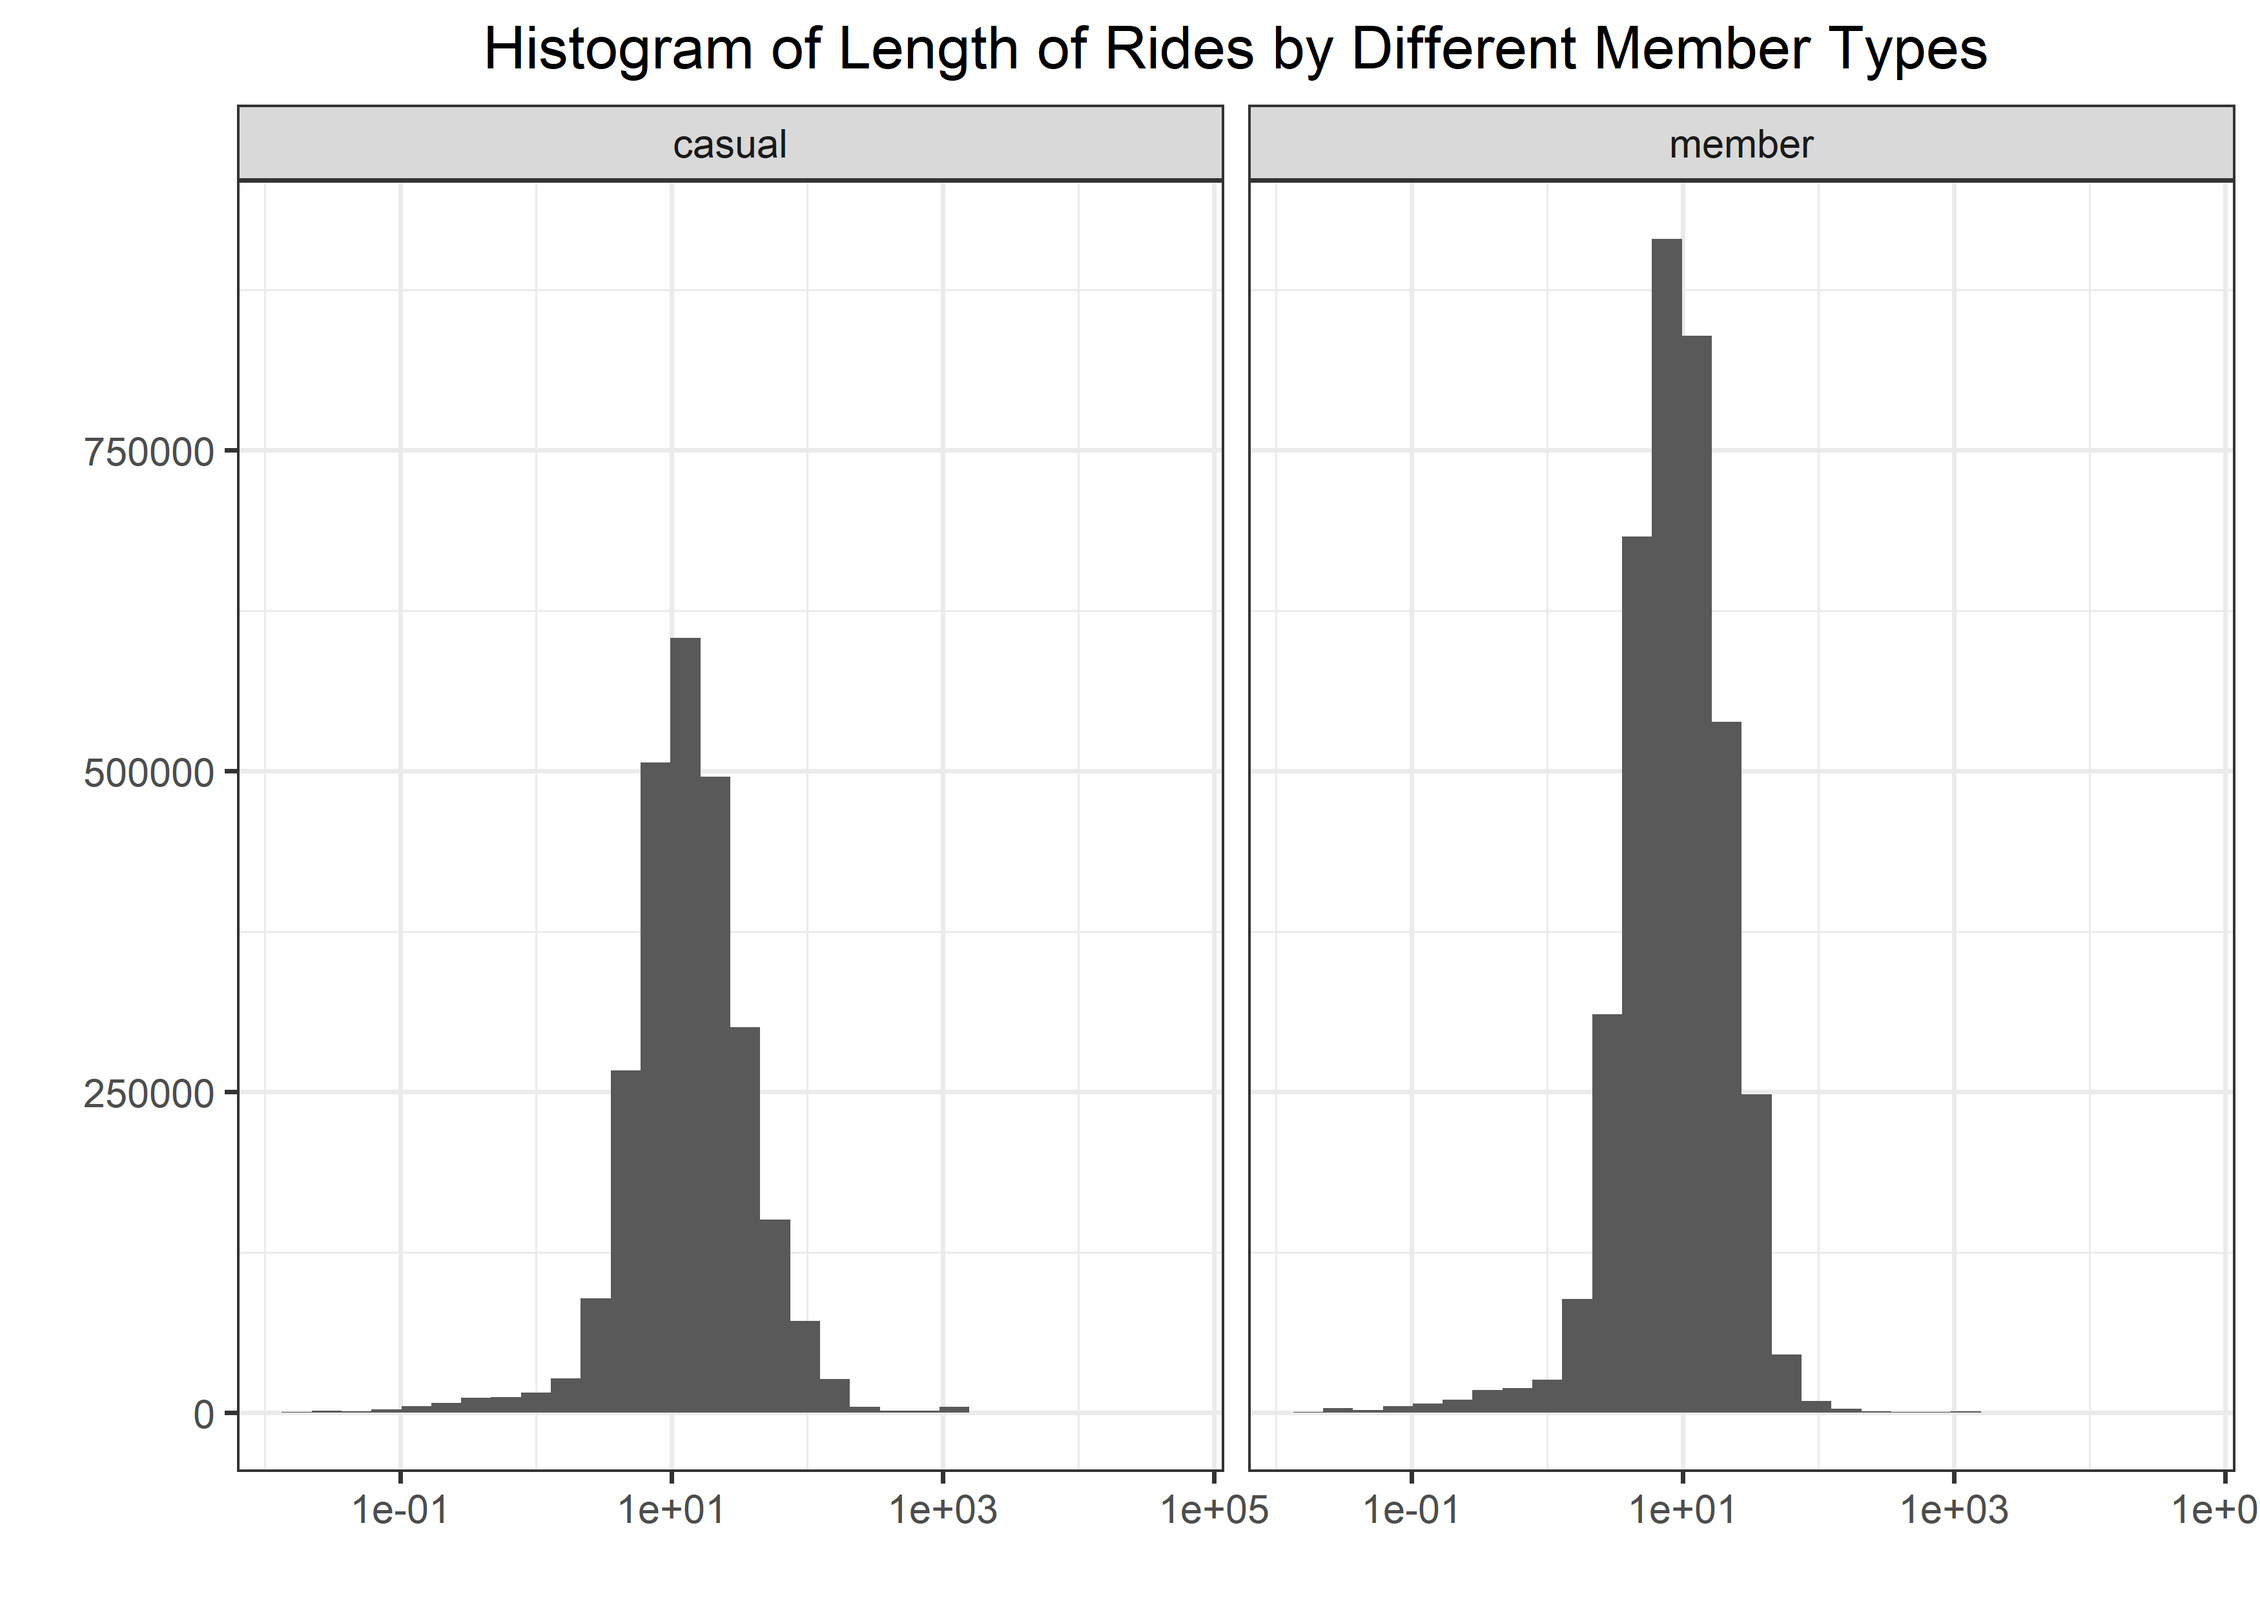
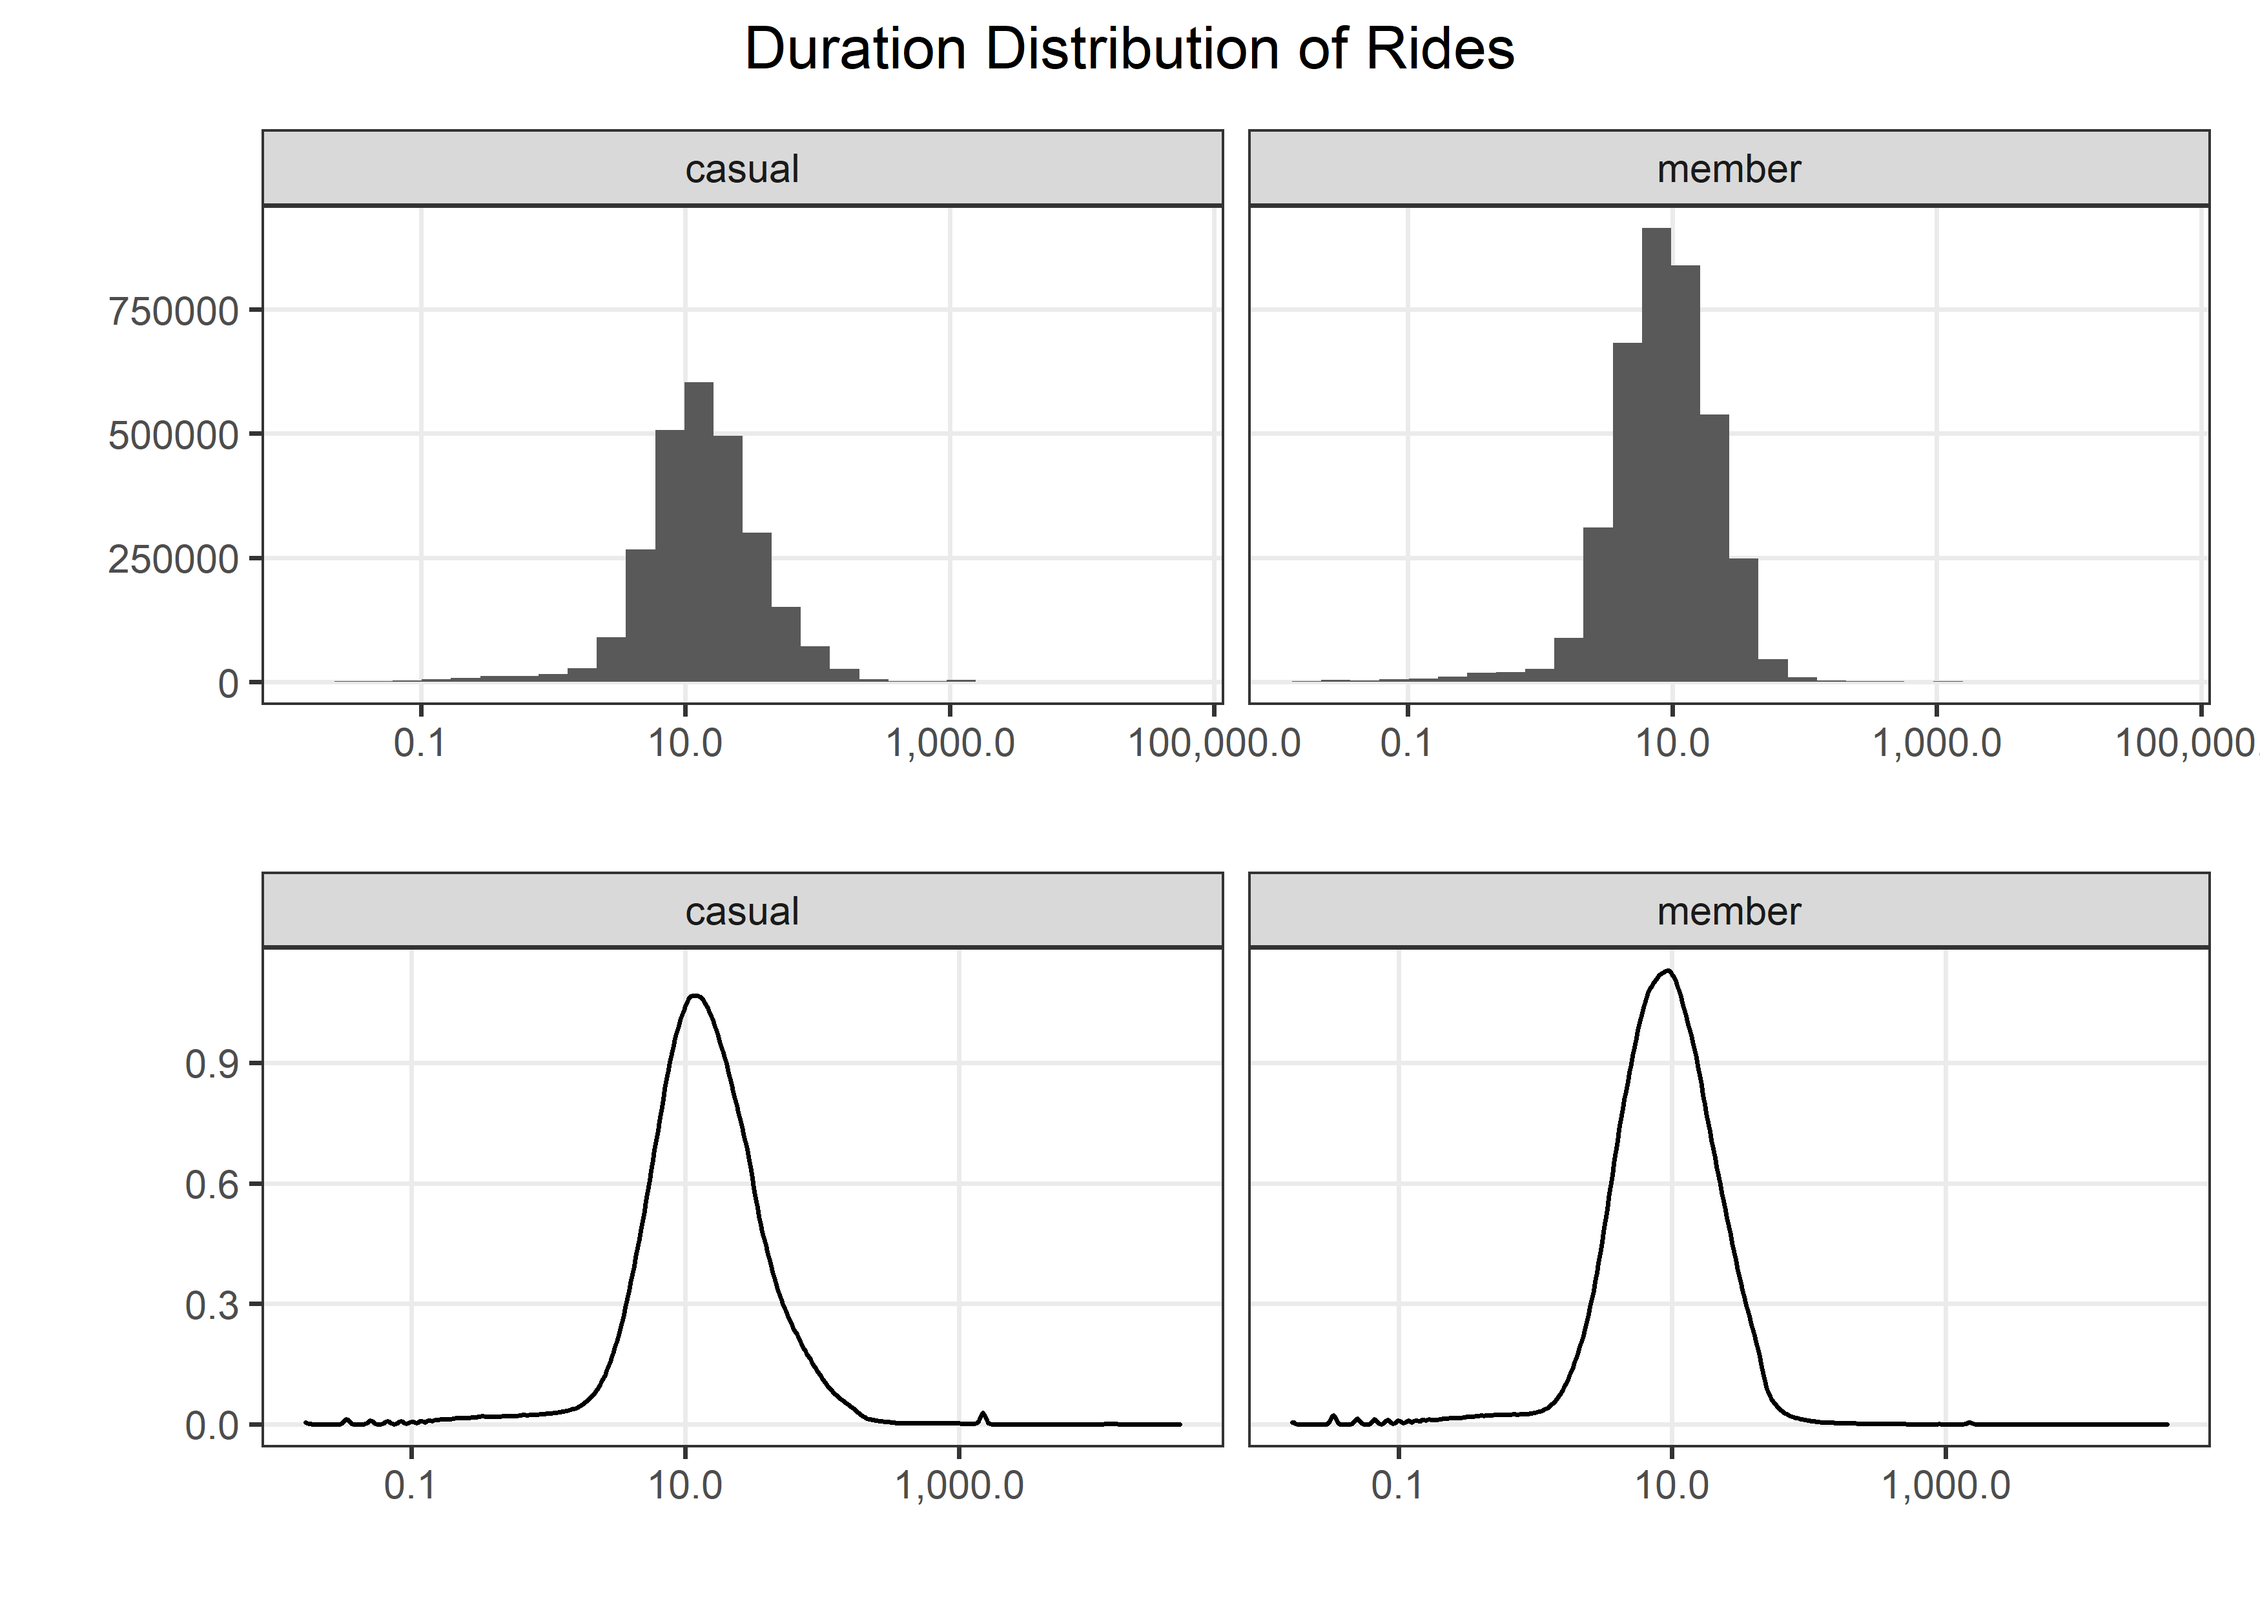
during work commit, removed errorbar plot and used boxplot instead (needs coloring). Plot of different days

diff --git a/Coursera Case Study/Bikes.md b/Coursera Case Study/Bikes.md
@@ -42,12 +42,13 @@ bikes <- read_csv("D:/Downloads/Case Study/Full Data/bikes.csv")
     ## i Use `spec()` to retrieve the full column specification for this data.
     ## i Specify the column types or set `show_col_types = FALSE` to quiet this message.
 
-Create columns that are the *length* of bike ride (in hours) and
-*day_of_week* (1 = Monday, 7 = Sunday).
+Create columns that are the *length* of bike ride (in seconds) and
+*day_of_week* (1 = Sunday, 7 = Saturday).
 
 ``` r
-bikes$length <- difftime(bikes$ended_at, bikes$started_at, "hours")
+bikes$length <- difftime(bikes$ended_at, bikes$started_at)
 bikes$day_of_week <- wday(bikes$started_at)
+bikes$day_label <- wday(bikes$started_at, label = TRUE)
 ```
 
 # Data Validation
@@ -89,7 +90,7 @@ bikes %>%
     ## # ... with 102 more rows
 
 ``` r
-bikes$length <- abs(bikes$length/60) # convert length (in seconds) to minutes and absolute value
+bikes$length <- abs(bikes$length)
 ```
 
 # EDA
@@ -102,11 +103,12 @@ skimr::skim_without_charts(bikes)
 |:-------------------------------------------------|:--------|
 | Name                                             | bikes   |
 | Number of rows                                   | 6386920 |
-| Number of columns                                | 15      |
+| Number of columns                                | 16      |
 | \_\_\_\_\_\_\_\_\_\_\_\_\_\_\_\_\_\_\_\_\_\_\_   |         |
 | Column type frequency:                           |         |
 | character                                        | 7       |
 | difftime                                         | 1       |
+| factor                                           | 1       |
 | numeric                                          | 5       |
 | POSIXct                                          | 2       |
 | \_\_\_\_\_\_\_\_\_\_\_\_\_\_\_\_\_\_\_\_\_\_\_\_ |         |
@@ -128,9 +130,15 @@ Data summary
 
 **Variable type: difftime**
 
-| skim_variable | n_missing | complete_rate | min    | max           | median     | n_unique |
-|:--------------|----------:|--------------:|:-------|:--------------|:-----------|---------:|
-| length        |         0 |             1 | 0 secs | 41387.25 secs | 10.35 secs |    23350 |
+| skim_variable | n_missing | complete_rate | min    | max          | median   | n_unique |
+|:--------------|----------:|--------------:|:-------|:-------------|:---------|---------:|
+| length        |         0 |             1 | 0 secs | 2483235 secs | 621 secs |    23350 |
+
+**Variable type: factor**
+
+| skim_variable | n_missing | complete_rate | ordered | n_unique | top_counts                                          |
+|:--------------|----------:|--------------:|:--------|---------:|:----------------------------------------------------|
+| day_label     |         0 |             1 | TRUE    |        7 | Sat: 1068394, Fri: 914981, Thu: 909070, Sun: 893711 |
 
 **Variable type: numeric**
 
@@ -157,28 +165,55 @@ subscription.
 
 ## Casuals vs Members
 
+There are more than 1 million more members than casuals.
+
 ``` r
 bikes %>% 
-  group_by(member_casual) %>% 
-  mutate(length = as.numeric(length)) %>% 
-  summarize(m = mean(length), sd = sd(length)) %>% 
-  ggplot(aes(m, member_casual, color = member_casual)) + geom_point() + 
-  geom_vline(aes(xintercept = m, color = member_casual), linetype = "dashed", show.legend = FALSE) +
-  geom_errorbar(aes(xmax = m + sd, xmin = m - sd), width = 0.25, show.legend = FALSE) + 
-  geom_text(aes(label = round(m,2), color = member_casual, x = ifelse(m < 13, -30, 70), y = 0.6), show.legend = FALSE) +
-  geom_segment(aes(x = -20, y = 0.56, xend = 10, yend = 0.48)) + 
-  geom_segment(aes(x = 55, y = 0.56, xend = 31, yend = 0.48), color = "red") +
-  labs(y = "", x = "Time in minutes", color = "", title = "Differences in Average Ridership Time")
+  count(member_casual, sort = TRUE)
 ```
 
-![](Bikes_files/figure-gfm/unnamed-chunk-7-1.png)<!-- -->
+    ## # A tibble: 2 x 2
+    ##   member_casual       n
+    ##   <chr>           <int>
+    ## 1 member        3776645
+    ## 2 casual        2610275
+
+Both members and casuals have the same distribution in their ridership
+duration.
 
 ``` r
-bikes %>% 
-  ggplot(aes(as.numeric(length))) + geom_histogram() + scale_x_log10() +
-  facet_wrap(~member_casual) + labs(y = "", x = "", title = "Histogram of Length of Rides by Different Member Types")
+(bikes %>% 
+  ggplot(aes(as.numeric(length/60))) + geom_histogram() + scale_x_log10(labels = comma_format()) +
+  facet_wrap(~member_casual) +
+  labs(y = "", x = "")) /
+(bikes %>% 
+  ggplot(aes(as.numeric(length/60))) + geom_density() + scale_x_log10(labels = comma_format()) +
+  facet_wrap(~member_casual) +
+  labs(y = "", x = "")) +
+  plot_annotation(title = "Duration Distribution of Rides")
 ```
 
     ## `stat_bin()` using `bins = 30`. Pick better value with `binwidth`.
 
 ![](Bikes_files/figure-gfm/unnamed-chunk-8-1.png)<!-- -->
+
+``` r
+bikes %>% 
+  ggplot(aes(as.numeric(length/60), member_casual)) + geom_boxplot() +
+  scale_x_log10()
+```
+
+![](Bikes_files/figure-gfm/unnamed-chunk-9-1.png)<!-- -->
+
+``` r
+bikes %>% 
+  ggplot(aes(fct_reorder(day_label, day_of_week), fill = member_casual)) + 
+  geom_bar(position = position_dodge2()) + 
+  scale_fill_manual(values = c("blue", "green4")) +
+  scale_y_continuous(labels = comma_format()) +
+  labs(y = "", x = "", 
+       title = "Days Members and Casuals Use Cyclistic",
+       fill = "")
+```
+
+![](Bikes_files/figure-gfm/unnamed-chunk-10-1.png)<!-- -->
